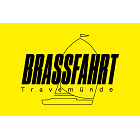
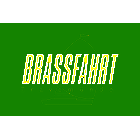
also added Brassfahrt VI

diff --git a/java/com.sap.sailing.gwt.ui/src/main/java/com/sap/sailing/gwt/common/client/BoatClassImageResolver.java b/java/com.sap.sailing.gwt.ui/src/main/java/com/sap/sailing/gwt/common/client/BoatClassImageResolver.java
@@ -49,6 +49,7 @@ public class BoatClassImageResolver {
         boatClassIconsMap.put(BoatClassMasterdata.BRASSFAHRT_III.getDisplayName(), imageResources.Brassfahrt3Icon());
         boatClassIconsMap.put(BoatClassMasterdata.BRASSFAHRT_IV.getDisplayName(), imageResources.Brassfahrt4Icon());
         boatClassIconsMap.put(BoatClassMasterdata.BRASSFAHRT_V.getDisplayName(), imageResources.Brassfahrt5Icon());
+        boatClassIconsMap.put(BoatClassMasterdata.BRASSFAHRT_VI.getDisplayName(), imageResources.Brassfahrt6Icon());
         boatClassIconsMap.put(BoatClassMasterdata.CADET.getDisplayName(), imageResources.CadetIcon());
         boatClassIconsMap.put(BoatClassMasterdata.CANOE_IC.getDisplayName(), imageResources.CanoeICIcon());
         boatClassIconsMap.put(BoatClassMasterdata.CANOE_TAIFUN.getDisplayName(), imageResources.CanoeTaifunIcon());

diff --git a/java/com.sap.sailing.domain.common/src/com/sap/sailing/domain/common/BoatClassMasterdata.java b/java/com.sap.sailing.domain.common/src/com/sap/sailing/domain/common/BoatClassMasterdata.java
@@ -35,6 +35,7 @@ public enum BoatClassMasterdata {
     BRASSFAHRT_III ("Brassfahrt III", true, 12.00, 3.50, BoatHullType.MONOHULL, true, "Brassfahrt 3"),
     BRASSFAHRT_IV ("Brassfahrt IV", true, 12.00, 3.50, BoatHullType.MONOHULL, true, "Brassfahrt 4"),
     BRASSFAHRT_V ("Brassfahrt V", true, 12.00, 3.50, BoatHullType.MONOHULL, true, "Brassfahrt 5"),
+    BRASSFAHRT_VI ("Brassfahrt VI", true, 12.00, 3.50, BoatHullType.MONOHULL, true, "Brassfahrt 6"),
     CADET ("Cadet", true, 3.20, 1.38, BoatHullType.MONOHULL, true),
     CANOE_IC ("International Canoe", true, 5.20, 1.01, BoatHullType.MONOHULL, true, "Canoe IC", "Canoe-IC", "IC", "Kanu IC", "International Canoe", "International 10 Sq.m. Sailing Canoe"),
     CANOE_TAIFUN ("Canoe Taifun", true, 5.20, 1.32, BoatHullType.MONOHULL, false, "Taifun", "Taifun Kanu", "Kanu Taifun"),

diff --git a/java/com.sap.sailing.gwt.ui/src/main/java/com/sap/sailing/gwt/common/client/BoatClassImageResources.java b/java/com.sap.sailing.gwt.ui/src/main/java/com/sap/sailing/gwt/common/client/BoatClassImageResources.java
@@ -112,6 +112,10 @@ public interface BoatClassImageResources extends ClientBundle {
     @ImageOptions(preventInlining = true)
     ImageResource Brassfahrt5Icon();
     
+    @Source("com/sap/sailing/gwt/ui/client/images/boatclass/Brassfahrt6.png")
+    @ImageOptions(preventInlining = true)
+    ImageResource Brassfahrt6Icon();
+    
     @Source("com/sap/sailing/gwt/ui/client/images/boatclass/CADET.png")
     @ImageOptions(preventInlining = true)
     ImageResource CadetIcon();
